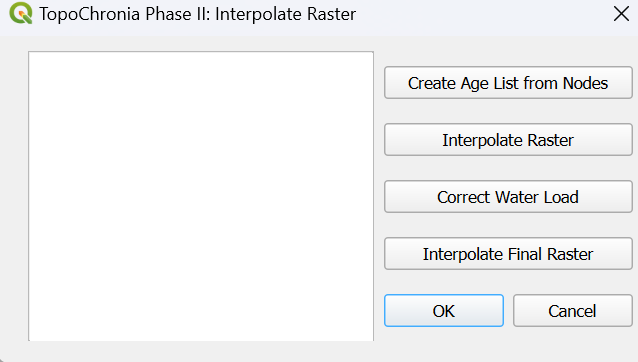
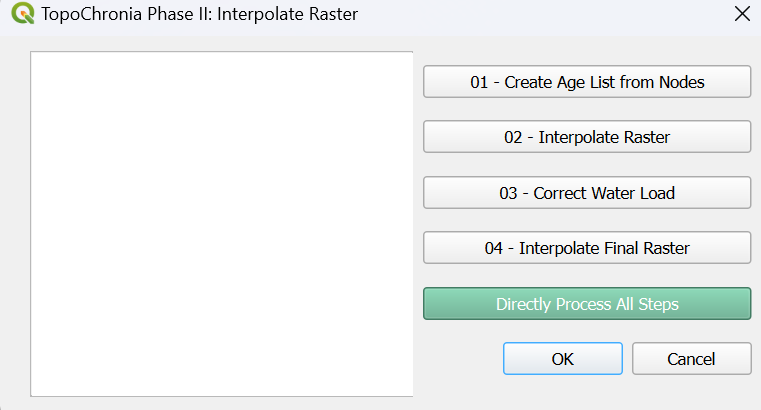
Updated docs

diff --git a/docs/source/index.rst b/docs/source/index.rst
@@ -9,21 +9,21 @@ TopoChronia
 Introduction
 ============
 
-Welcome to the documentation for `TopoChronia <https://github.com/florianfranz/topo_chronia>`_. This guide will help you get started and provides a step-by-step guide
+Welcome to the documentation for `TopoChronia <https://github.com/florianfranz/topo_chronia>`_. This guide will help you get started and provides step-by-step instructions
 to process raw input PANALESIS data into fully quantified palaeotopographic maps for the entire Phanerozoic.
 
 Installation
 ============
 
-To install the plugin, go to the `releases folder <https://github.com/florianfranz/topo_chronia/blob/master/releases/new>`_
-and download the zip folder.
+To install the plugin, Go to the `repository homepage <https://github.com/florianfranz/topo_chronia>`_ click on "Code" and "Download ZIP".
 
-Once downloaded, open QGIS and click on "Plugins" → "Manage and Install Plugins".
-
-.. image:: _static/qgis_inst_plugin.png
+.. image:: _static/download_zip.png
    :alt: Description of the image
    :width: 400px
    :align: center
+
+
+Once downloaded, open QGIS and click on "Plugins" → "Manage and Install Plugins".
 
 The plugin manager window will open. On the left pane, select “Install from ZIP”, then browse to where the .zip folder
 was downloaded in the previous step. Select the topo_chronia.zip file and finally click on “Install Plugin”.
@@ -142,7 +142,7 @@ A new dialog will open:
    :width: 700px
    :align: center
 
-This phase is the longest and requires a few steps. First, click on "Create Age List". This will check what
+This phase is the longest and requires a few steps. First, click on "01 - Create Age List". This will check what
 reconstruction ages are common to the input layers (PM, PP and COB). in our case, we only have the 444 Ma age, which is
 displayed with its stratigraphic stage name, based on the `International Chronographic Chart of December 2024
 (International Commission on Stratigraphy) <https://stratigraphy.org/ICSchart/ChronostratChart2024-12.pdf>`_
@@ -153,18 +153,17 @@ displayed with its stratigraphic stage name, based on the `International Chronog
    :width: 400px
    :align: center
 
-Click on the desired age, and then click on "Prepare Data". This will create two layers in your output folders, which
-are the continent and plate polygons for the selected age only, that will be used later on during the nodes creation (for
-instance to check for intersections). Once completed (it should take a minute or so), the progress bar should show 100%.
+The next phase is the conversion from lines (extracted from the PM) into nodes with elevation. It may take up to a few minutes
+to process everything. In order to start, clicking on the "02 - Convert Features" button will perform the following operations:
 
-The next phase is the conversion from lines (extracted from the PM) into nodes with elevation. It may take up to 1 hours
-to process everything. In order, clicking on the "Convert Features" button will perform the following operations:
-
+* Prepare data: extract COB and PP for the desired age.
 * Select lines (extract all lines from the PM for all features, harmonize vertices density and, if needed, create polygons for specific settings, such as hot-spots and cratons)
 * Ridges (RID) to nodes
 * Isochron (ISO) to nodes
 * Preliminary raster interpolation (only using ridge and isochron nodes)
 
+To avoid the QGIS interface from freezing and optimize the computing time, the lines selections as well as the ridge and isochrons conversions are sent to threads.
+The preliminary raster interpolation however is very unstable with threads so it is processed normally. Having the interface freezing for a few seconds (up to a minute) is therefore possible.
 Then, once the preliminary raster is interpolated, the remaining features are processed in parallel, using threads:
 
 * Lower subduction (LWS) to nodes
@@ -188,8 +187,8 @@ no checks for intersection or overlap between different settings have been made,
    :align: center
 
 We can now go on with the next step which is merge all nodes into a single layer "all_nodes_444.geojson", by clicking
-on "Merge All Nodes". Once this is done, we are ready for the last step that is the cleaning of nodes from different
-settings that might clash (either be too close from one another or overlap). This final operation might take some time
+on "03 -Merge All Nodes". Once this is done, we are ready for the last step that is the cleaning of nodes from different
+settings that might clash (either be too close from one another or overlap) by clicking on "04 - Clean Nodes". This final operation might take some time
 because we need to check every node against all nodes present in a certain radius.
 
 After the cleaning process is done, we have a layer containing all nodes that render coherent settings, without clashes.
@@ -201,6 +200,8 @@ After the cleaning process is done, we have a layer containing all nodes that re
 
 **NB:** The demo data is provided following a "Europe-fixed" frame, which explains why it differs from other sources. We
 strongly advise not using the demo data for any other purposes outside of testing this plugin.
+
+**NB:**: If you want to perform all steps in one go, you just need to click on "Directly Process All Steps" green button.
 
 Interpolate Raster
 ------------------
@@ -214,10 +215,10 @@ Click on the last icon "Interpolate Raster", a new dialog will open:
    :width: 400px
    :align: center
 
-As per the last phase, a few steps are required here. First, click on "Create Age List from Nodes" will search the
+As per the last phase, a few steps are required here. First, click on "01 - Create Age List from Nodes" will search the
 output folder for all nodes layer and return the available ages. L
 
-ike we did before, select the 444 Ma age and click on "Interpolate Raster". This step will perform a few tasks before
+ike we did before, select the 444 Ma age and click on "02 - Interpolate Raster". This step will perform a few tasks before
 doing the interpolation itself, including remove any duplicate geometries and reproject the nodes layer into ESRI:54034
 projection - World Cylindrical Equal Area (WCEA).
 
@@ -235,20 +236,30 @@ on the corners of the map.
 
 We are now able to calculate the oceanic volume (simplified as being the volume below elevation = 0m) and compare it
 with the current oceanic volume calculated using ETOPO 2022 data, which is used as a reference. This will inform us
-about the required sea-level increase (or decrease) needed to reach the reference volume.
+about the required sea-level increase (or decrease) needed to reach the reference volume. Click on "03 - Correct Water Load".
 
 This change in sea-level must then be accounted for, as the water load (added or removed) will impact the elevation. For
 this, click on "Correct Water Load". Once the water load is accounted for, the nodes layer will be updated with a new
 elevation value "Z_WLC". In our case, the corrected sea-level equals to 78m above present-day, and will be added to all
 nodes.
 
-Finally, by clicking on "Interpolate Final Raster", a final raster will be created using the same method as before (QGIS
+The outputs are saved into a text file located in the output folder "water_load_correction_summary.txt"
+
+Finally, by clicking on "04 - Interpolate Final Raster", a final raster will be created using the same method as before (QGIS
 TIN), based on the water load corrected elevation, with filling of no-data pixels.
 
 .. image:: _static/int_raster_map_2.png
    :alt: Description of the image
    :width: 700px
    :align: center
+
+Final checks are done to test whether or not the applied corrections to the final raster worked, by calculating the final volume of oceans under the z=0m.
+Final outputs are saved into a text file located in the output folder "water_load_correction_summary_f.txt"
+
+
+**NB:**: If you want to perform all steps in one go, you just need to click on "Directly Process All Steps" green button.
+
+
 
 Contributing
 ============

diff --git a/README.md b/README.md
@@ -11,7 +11,7 @@
 
 
 
-The TopoChronia Plugin is a free open source plugin 
+TopoChronia is a free open source plugin 
 for QGIS that converts plate tectonics input features into fully quantified 
 maps of the Earth past topography (palaeotopography) and geography (palaeogeography),
 using the PANALESIS plate tectonic model.
@@ -37,7 +37,7 @@ To install the plugin:
 
 * Manual installation:
   - Go to the [repository homepage](https://github.com/florianfranz/topo_chronia) click on "Code" and "Download ZIP". 
-  ![download_zip](images/download_zip.png)
+  ![download_zip](docs/source/_static/download_zip.png)
   - Open QGIS → Plugins → Manage and Install Plugins → Install from .zip
   - Select the downloaded .zip folder and click on "Install".
 
